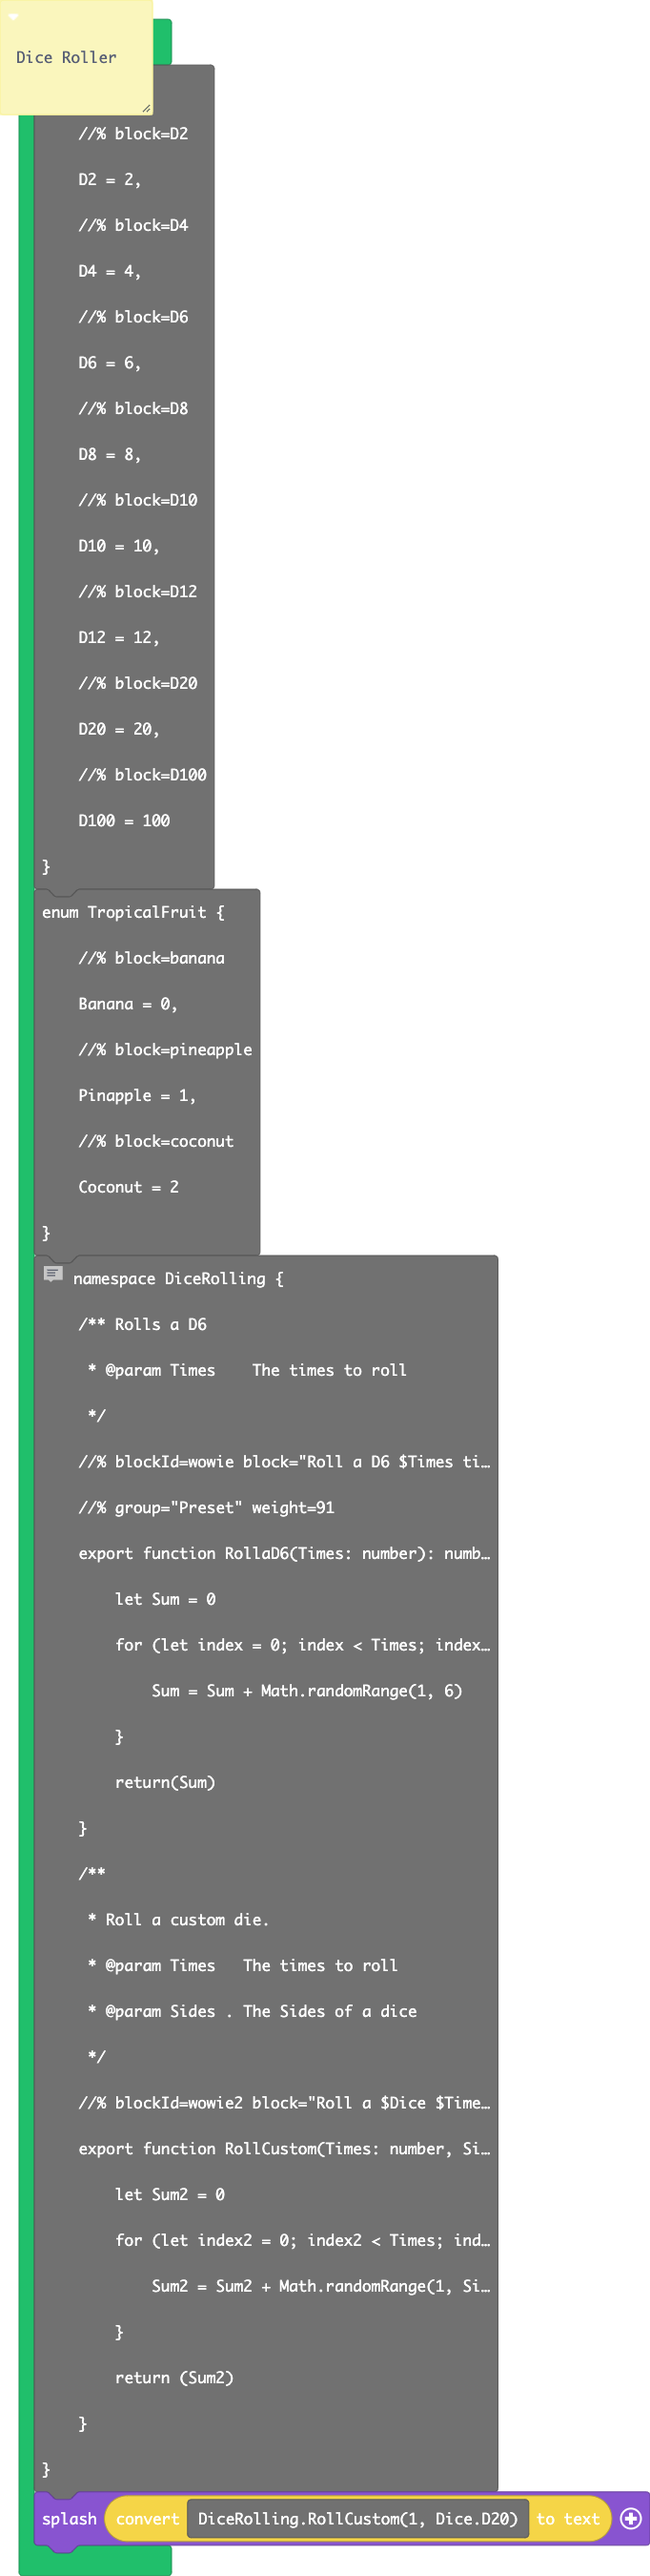
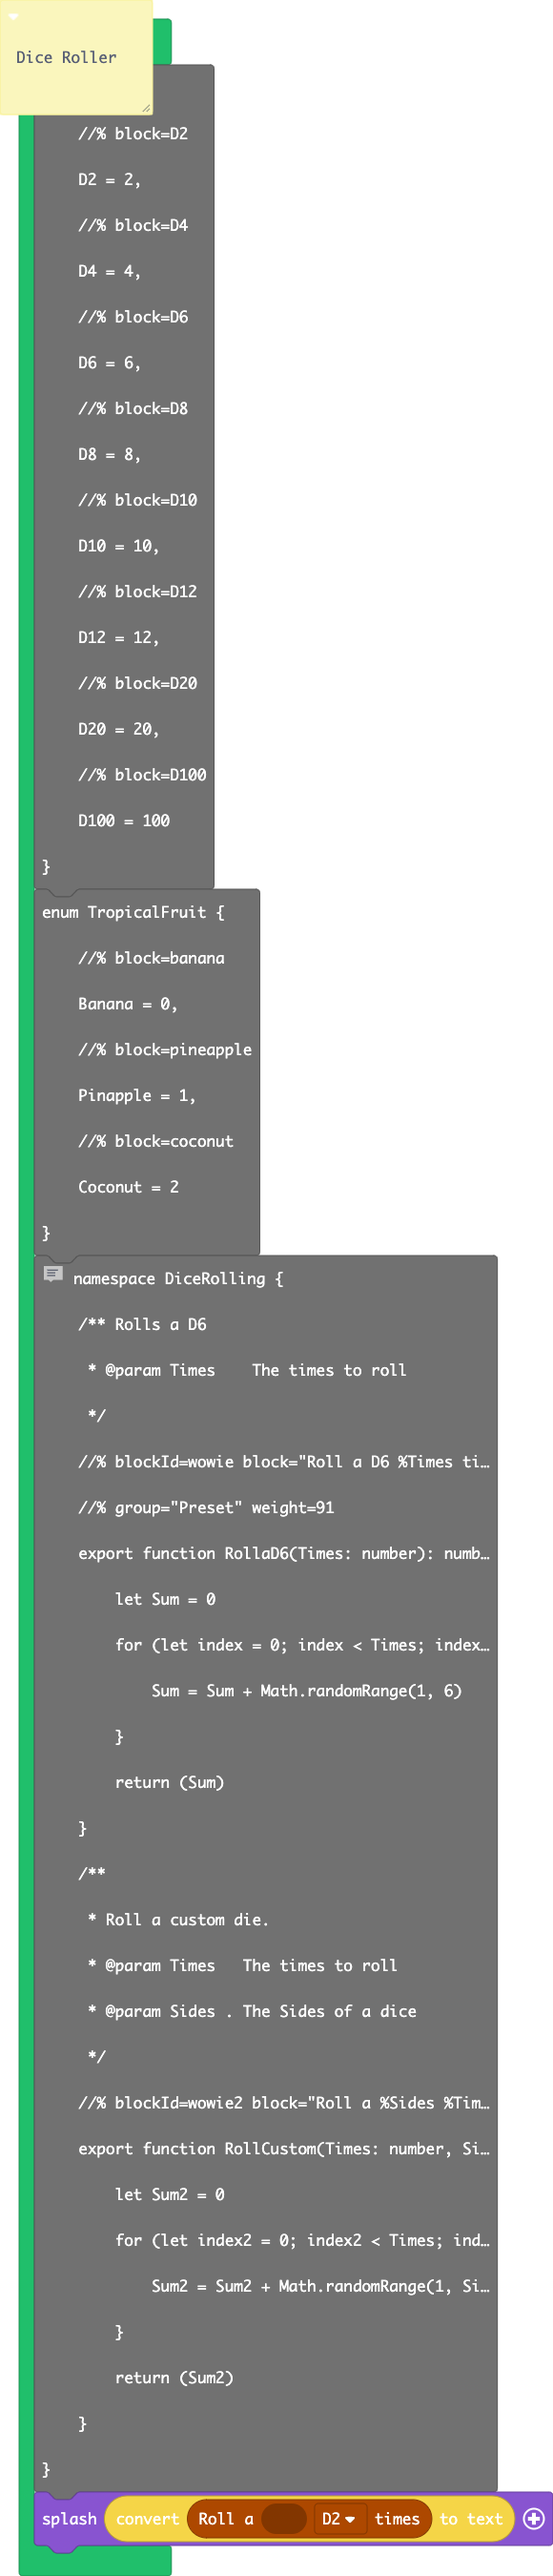
Update main.blocks, main.ts

diff --git a/main.ts b/main.ts
@@ -27,7 +27,8 @@ enum TropicalFruit {
     //% block=coconut
     Coconut = 2
 }
-//% color="#ad4800" icon="\u2684" block="Dice" weight=42
+// % color="#ad4800" icon="\u2684" block="Dice"
+// weight=42
 namespace DiceRolling {
     /** Rolls a D6
      * @param Times    The times to roll
@@ -47,7 +48,7 @@ namespace DiceRolling {
      * @param Sides . The Sides of a dice
      */
     //% blockId=wowie2 block="Roll a %Sides %Times times" weight=90 group="Custom"
-    export function RollCustom(Times: number, Sides: Dice): number {
+    export function RollCustom(Sides: Dice, Times: number): number {
         let Sum2 = 0
         for (let index2 = 0; index2 < Times; index2++) {
             Sum2 = Sum2 + Math.randomRange(1, Sides)
@@ -55,4 +56,4 @@ namespace DiceRolling {
         return (Sum2)
     }
 }
-game.splash(convertToText(DiceRolling.RollCustom(1, Dice.D20)))
+game.splash(convertToText(DiceRolling.RollCustom(0, Dice.D2)))
